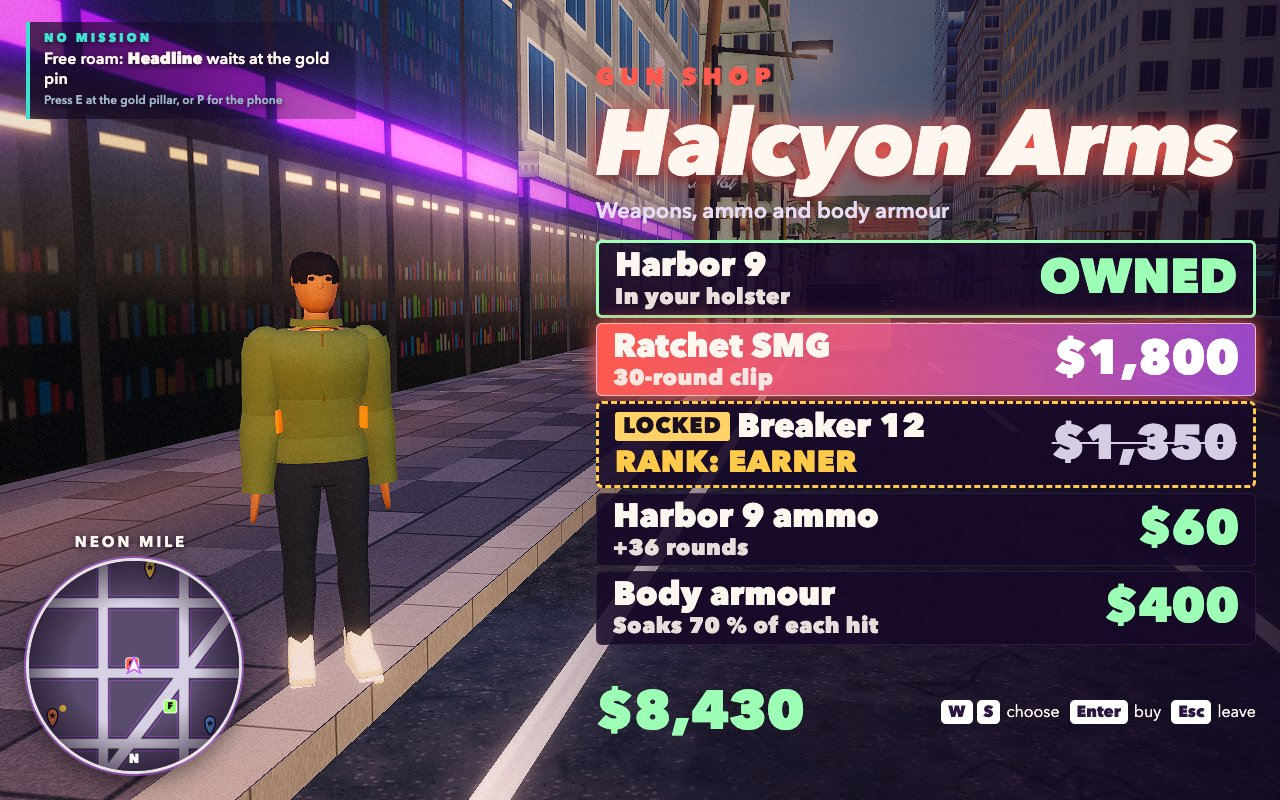
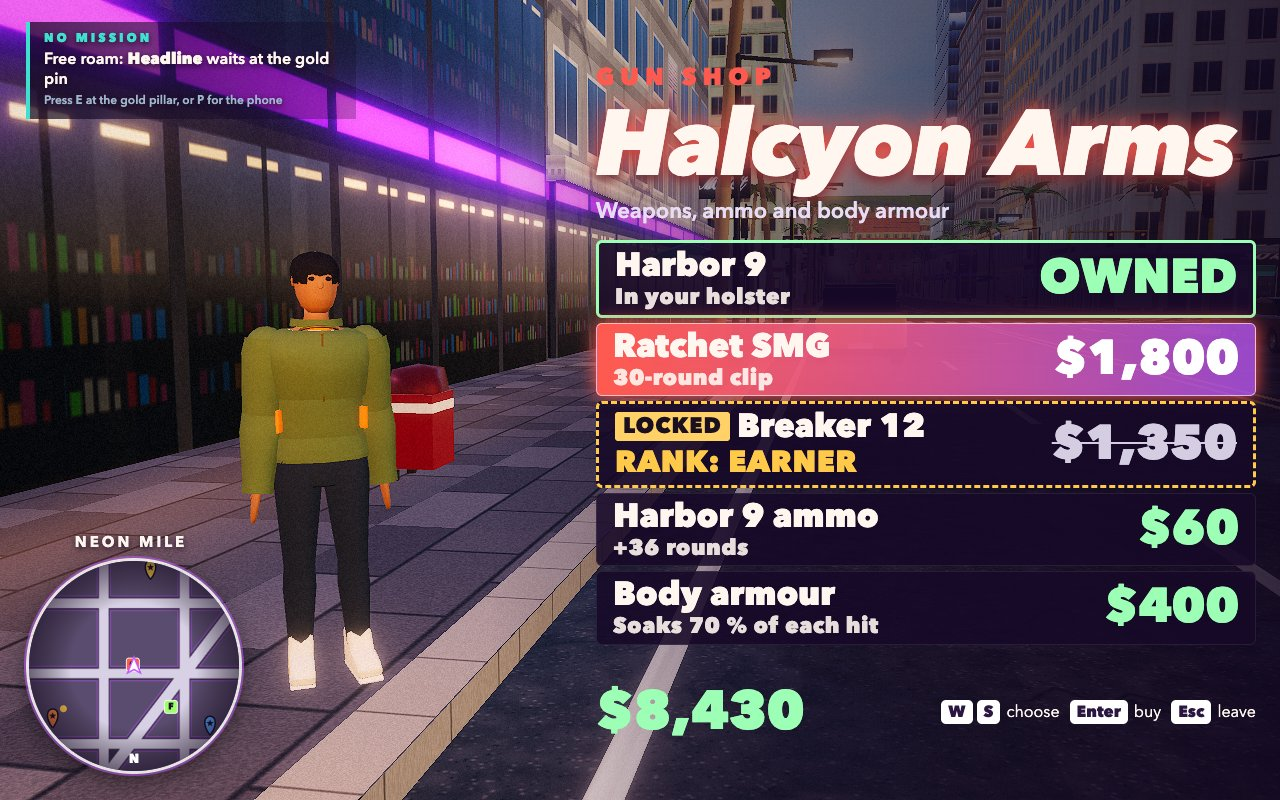
fix(shots): Ilo stands within the gun shop's reach, where the menu can open

diff --git a/game/src/shotsshop.js b/game/src/shotsshop.js
@@ -5,6 +5,8 @@ import { STORY_POINTS, seedStory } from './shotsstory.js';
 const GUN_SHOP = PLACES.find((place) => place.id === 'gun');
 const STEPS = 45;
 const CLEAR_RADIUS = 14;
+/** Where Ilo stands, metres out from the door and along the front: clear of the palm, 2.15 m from the door. */
+const STAND = { out: 1.62, along: 1.41 };
 const SHOPFRONT_LIGHT = '#ffb468';
 const SHOPFRONT_LEVEL = 22;
 const GOLDEN_FILL = '#ffc98c';
@@ -48,11 +50,11 @@ export const SHOP_SHOTS = {
       const place = shops.places.find((entry) => entry.id === GUN_SHOP.id);
       // The fourth-job point shows all three states: the pistol owned, the SMG for sale, the shotgun rank locked.
       seedStory(game, STORY_POINTS.fourthJob);
-      // A step from the door at the kerb, clear of the palm, half turned down the street: the lit shopfront runs
-      // away behind him to the sunlit towers, and its warm light falls on him (the game's own key light, up).
+      // A step from the door, inside the 2.2 m from which E opens the menu, half turned down the street: the lit
+      // shopfront runs away behind him to the sunlit towers, and its warm light falls on him (the key light, up).
       const along = { x: place.outZ, z: -place.outX };
-      game.player.placeOnFoot(place.x + place.outX * 2 + along.x * 2.2, place.z + place.outZ * 2 + along.z * 2.2,
-        place.heading - 0.95);
+      game.player.placeOnFoot(place.x + place.outX * STAND.out + along.x * STAND.along,
+        place.z + place.outZ * STAND.out + along.z * STAND.along, place.heading - 0.95);
       game.lighting.key.color.set(SHOPFRONT_LIGHT);
       game.lighting.key.intensity = SHOPFRONT_LEVEL;
       // The street lies in the towers' shade at this hour: the sky fill carries the gold the sun lays on them.
